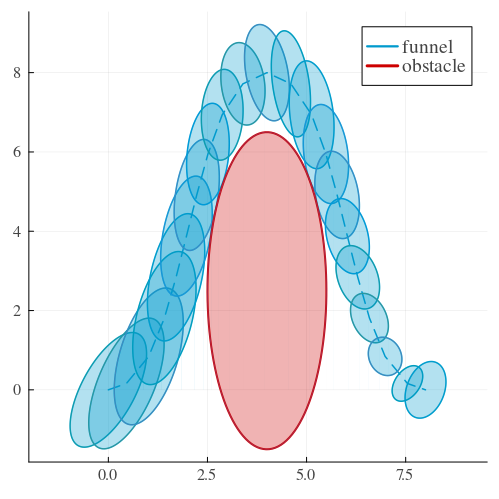
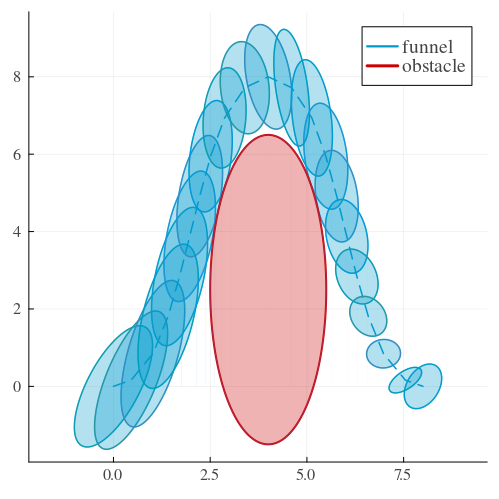
update Lipschitz constant estimation

diff --git a/README.md b/README.md
@@ -11,23 +11,23 @@ When you run the script, you will see output similar to this:
 lambda_w: 0.01 cost: diverged
 lambda_w: 0.1 cost: diverged
 lambda_w: 0.2 cost: diverged
-lambda_w: 0.3 cost: -2.2911709525534127
-lambda_w: 0.4 cost: -1.9069409141813378
-lambda_w: 0.5 cost: -1.4406414895023334
-lambda_w: 0.6 cost: -1.0666701375161036
-lambda_w: 0.7 cost: -0.7772853920561931
-lambda_w: 0.8 cost: -0.5501673803243492
-lambda_w: 1.0 cost: -0.18476619077453674
-lambda_w: 1.2 cost: 0.34164336496816533
+lambda_w: 0.3 cost: -2.9688720423906876
+lambda_w: 0.4 cost: -2.3676169371262916
+lambda_w: 0.5 cost: -1.7733578432040027
+lambda_w: 0.6 cost: -1.3306349270016562
+lambda_w: 0.7 cost: -1.000456781445645
+lambda_w: 0.8 cost: -0.7488982249417353
+lambda_w: 1.0 cost: -0.3726782425864384
+lambda_w: 1.2 cost: 0.04401437311050141
 lambda_w: 1.4 cost: diverged
 lambda_w: 1.6 cost: diverged
 lambda_w: 1.8 cost: diverged
 lambda_w: 2.0 cost: diverged
 0.3 is picked
 ======== First copositive condition ========
-lambda_w: 0.3 cost: -2.2911709525534127 solve time 0.3278028964996338
+lambda_w: 0.3 cost: -2.9688720423906876 solve time 0.30774497985839844
 ======== Second copositive condition ========
-lambda_w: 0.3 cost: -2.3700379557202016 solve time 0.7020359039306641
+lambda_w: 0.3 cost: -3.0321508863107156 solve time 0.6913230419158936
 ```
 ### Generated Figure
 The script also generates and saves a figure to ./funnels.png, which illustrates the results of the funnels.
